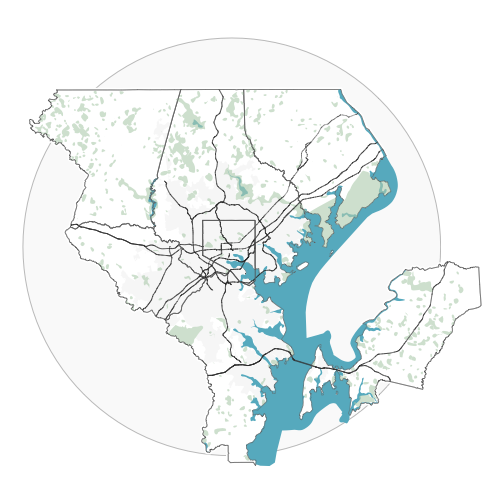
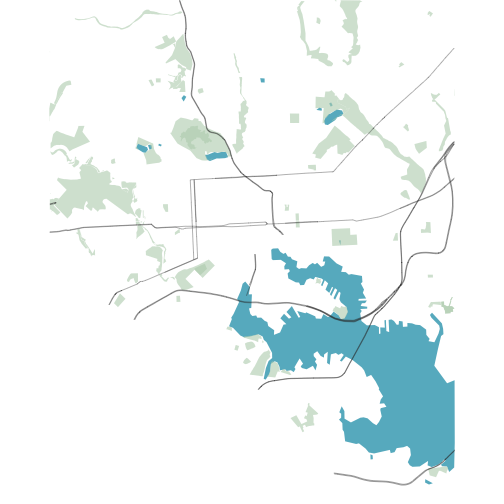
Expand README

diff --git a/README.md b/README.md
@@ -9,40 +9,131 @@ output: github_document
 # tigris-basemap
 
 <!-- badges: start -->
-[![Lifecycle: experimental](https://img.shields.io/badge/lifecycle-experimental-orange.svg)](https://lifecycle.r-lib.org/articles/stages.html#experimental)
-[![License: MIT](https://img.shields.io/badge/License-MIT-yellow.svg)](https://opensource.org/licenses/MIT)
-[![Project Status: Concept – Minimal or no implementation has been done yet, or the repository is only intended to be a limited example, demo, or proof-of-concept.](https://www.repostatus.org/badges/latest/concept.svg)](https://www.repostatus.org/#concept)
+
+[![Lifecycle: experimental](https://img.shields.io/badge/lifecycle-experimental-orange.svg)](https://lifecycle.r-lib.org/articles/stages.html#experimental) [![License: MIT](https://img.shields.io/badge/License-MIT-yellow.svg)](https://opensource.org/licenses/MIT) [![Project Status: Concept – Minimal or no implementation has been done yet, or the repository is only intended to be a limited example, demo, or proof-of-concept.](https://www.repostatus.org/badges/latest/concept.svg)](https://www.repostatus.org/#concept)
+
 <!-- badges: end -->
 
 The goal of tigris-basemap is to share a reproducible data pipeline (RAP) built with `{targets}` and `{tigris}` for creating static basemaps of counties and metropolitan areas in the United States of America using spatial data from the Census Bureau and USGS.
 
-At present this pipeline relies on development versions of both `{tigris}` and `{arcgislayers}`. These can be installed using `{pak}` or `{devtools}`:
+At present this pipeline relies on development versions of `{tigris}` and `{rmapshaper}`. These can be installed using `{pak}` or `{devtools}`:
 
 
-```r
+``` r
 pak::pkg_install("elipousson/tigris")
-pak::pkg_install("elipousson/arcgislayers")
+pak::pkg_install("elipousson/rmapshaper")
 ```
+
+## Configuring geographies
+
+The geographies used by the pipeline are specified in `geographies.yml`. Each entry under the `geographies` key creates a county basemap and a regional basemap for a focal county and the metropolitan statistical area (MSA) that contains it:
+
+```yaml
+geographies:
+  baltimore_city:
+    name: Baltimore City
+    description: County and regional basemaps for Baltimore City, Maryland.
+    tigris_year: 2023
+    state: MD
+    county: Baltimore city
+    msa: Baltimore-Columbia-Towson, MD Metro Area
+    division:
+      type: custom
+      url: https://services1.arcgis.com/mVFRs7NF4iFitgbY/arcgis/rest/services/Community_Statistical_Areas_(CSAs)__Reference_Boundaries/FeatureServer/0
+      name_col: Community
+      snap_to_tracts: true
+```
+
+- `name`, `tigris_year`, `state`, `county`, and `msa` are required. `msa` must use the name of the MSA from the American Community Survey (ACS) and `state` is the state of the focal county.
+- MSAs can include multiple states, e.g. `Washington-Arlington-Alexandria, DC-VA-MD-WV Metro Area`. The states in the MSA are parsed from the name or can be listed with the optional `msa_states` field (which must match the name). The counties in the MSA are selected using the CBSA code (`CBSAFP`) for each county, and the pipeline checks that the focal county is in the MSA and that the selected counties cover the MSA.
+- `division` is optional. `type` can be `tract` or `zcta` (both loaded with `{tigris}`) or `custom`. Custom divisions require either a `path` to a file readable by `sf::read_sf()` or a `url` for an ArcGIS layer. Set `snap_to_tracts: true` with a `name_col` to rebuild custom divisions from census tracts.
+
+Target names use the entry key as a suffix, e.g. `county_basemap_baltimore_city`. Data shared by multiple geographies is only loaded once: national data for each year (e.g. `us_msa_2023`), state data for each state and year, including every state in each MSA (e.g. `counties_md_2023` is used for both the Baltimore and Washington, DC MSAs), and MSA data for each MSA and year (e.g. `msa_water_baltimore_md_2023`). To build the targets for a single geography, use:
+
+
+``` r
+targets::tar_make(names = tidyselect::ends_with("_baltimore_city"))
+```
+
+## Configuring data sources and basemap styles
+
+Every external data source used by the pipeline is listed in `sources.yml` with a description, the `{tigris}` function or ArcGIS layer URL used to load it, and optional `args` for the loader function and default `processing_steps`:
+
+```yaml
+sources:
+  usgs_pad:
+    name: USGS Protected Areas Database (PAD-US) by manager name
+    description: >-
+      Protected areas loaded with load_arc_url() and filtered by the area of
+      interest. Small parcels are dropped on the server with a `where` clause
+      on GIS_Acres.
+    type: arcgis
+    url: https://services.arcgis.com/v01gqwM5QqNysAAi/ArcGIS/rest/services/Manager_Name/FeatureServer/0
+    args:
+      where: GIS_Acres >= 20
+    processing_steps:
+      - name: st_make_valid
+```
+
+Source `processing_steps` (such as repairing invalid geometry) always run first. Loaders only download data and transform it to the basemap CRS: clipping and other changes to geometry are explicit processing steps.
+
+The data, view, and style layers for the county and MSA basemaps are specified in `basemaps.yml`. Style layers follow the [MapLibre Style Spec](https://maplibre.org/maplibre-style-spec/layers/) and are drawn in order with `ggplot2::geom_sf()`. Each layer can use `processing_steps` named after the function they call (e.g. `ms_simplify` or `st_buffer`) to prepare geometry for cartographic purposes:
+
+```yaml
+basemaps:
+  msa:
+    data:
+      water:
+        source: tigris_area_water
+        processing_steps:
+          - name: ms_clip
+            args:
+              clip:
+                source: msa_counties
+              remove_slivers: true
+    staging:
+      metro_areas:
+        source: tigris_metro_divisions
+    view:
+      bounds:
+        source: [counties, buffer, water]
+    layers:
+      - id: water
+        type: fill
+        source: water
+        processing_steps:
+          - name: ms_simplify
+            args:
+              keep: 0.02
+          - name: st_union
+        paint:
+          fill-color: "#66B7C9"
+```
+
+Data that is loaded by the pipeline but not yet used by a basemap is listed under `staging`. See [`docs/style-spec.md`](docs/style-spec.md) for the full schema, the supported processing steps, and how MapLibre properties map onto ggplot2 arguments.
+
+Settings from both files are inserted directly into the target commands, so changing the settings for one source or layer only invalidates the targets that use it. Changes to `paint` or `layout` properties only invalidate the basemap targets (e.g. `msa_basemap_baltimore_city`) without re-running any processing steps.
+
+## Examples
 
 Here is an example of a county map created with this pipeline:
 
 
-```r
-targets::tar_read_raw("county_basemap")
+``` r
+targets::tar_read(county_basemap_baltimore_city)
 ```
 
-![plot of chunk unnamed-chunk-3](figure/unnamed-chunk-3-1.png)
+![plot of chunk unnamed-chunk-4](figure/unnamed-chunk-4-1.png)
 
 This map does not include the outside border of the county as it is intended to be used in combination with a data layer and then county boundary applied as a foreground layer.
 
 Here is an example of a regional map created with this pipeline:
 
 
-```r
-targets::tar_read_raw("msa_basemap")
+``` r
+targets::tar_read(msa_basemap_baltimore_city)
 ```
 
-![plot of chunk unnamed-chunk-4](figure/unnamed-chunk-4-1.png)
+![plot of chunk unnamed-chunk-5](figure/unnamed-chunk-5-1.png)
 
-The design of both maps are created for use in Baltimore City, Maryland and the Baltimore-Columbia-Towson, MD Metro Area. The pipeline works with other counties and metro areas but has not been tested extensively and likely will not work with all geographies. 
- 
+The design of both maps are created for use in Baltimore City, Maryland and the Baltimore-Columbia-Towson, MD Metro Area. The pipeline works with other counties and metro areas but has not been tested extensively and likely will not work with all geographies.
